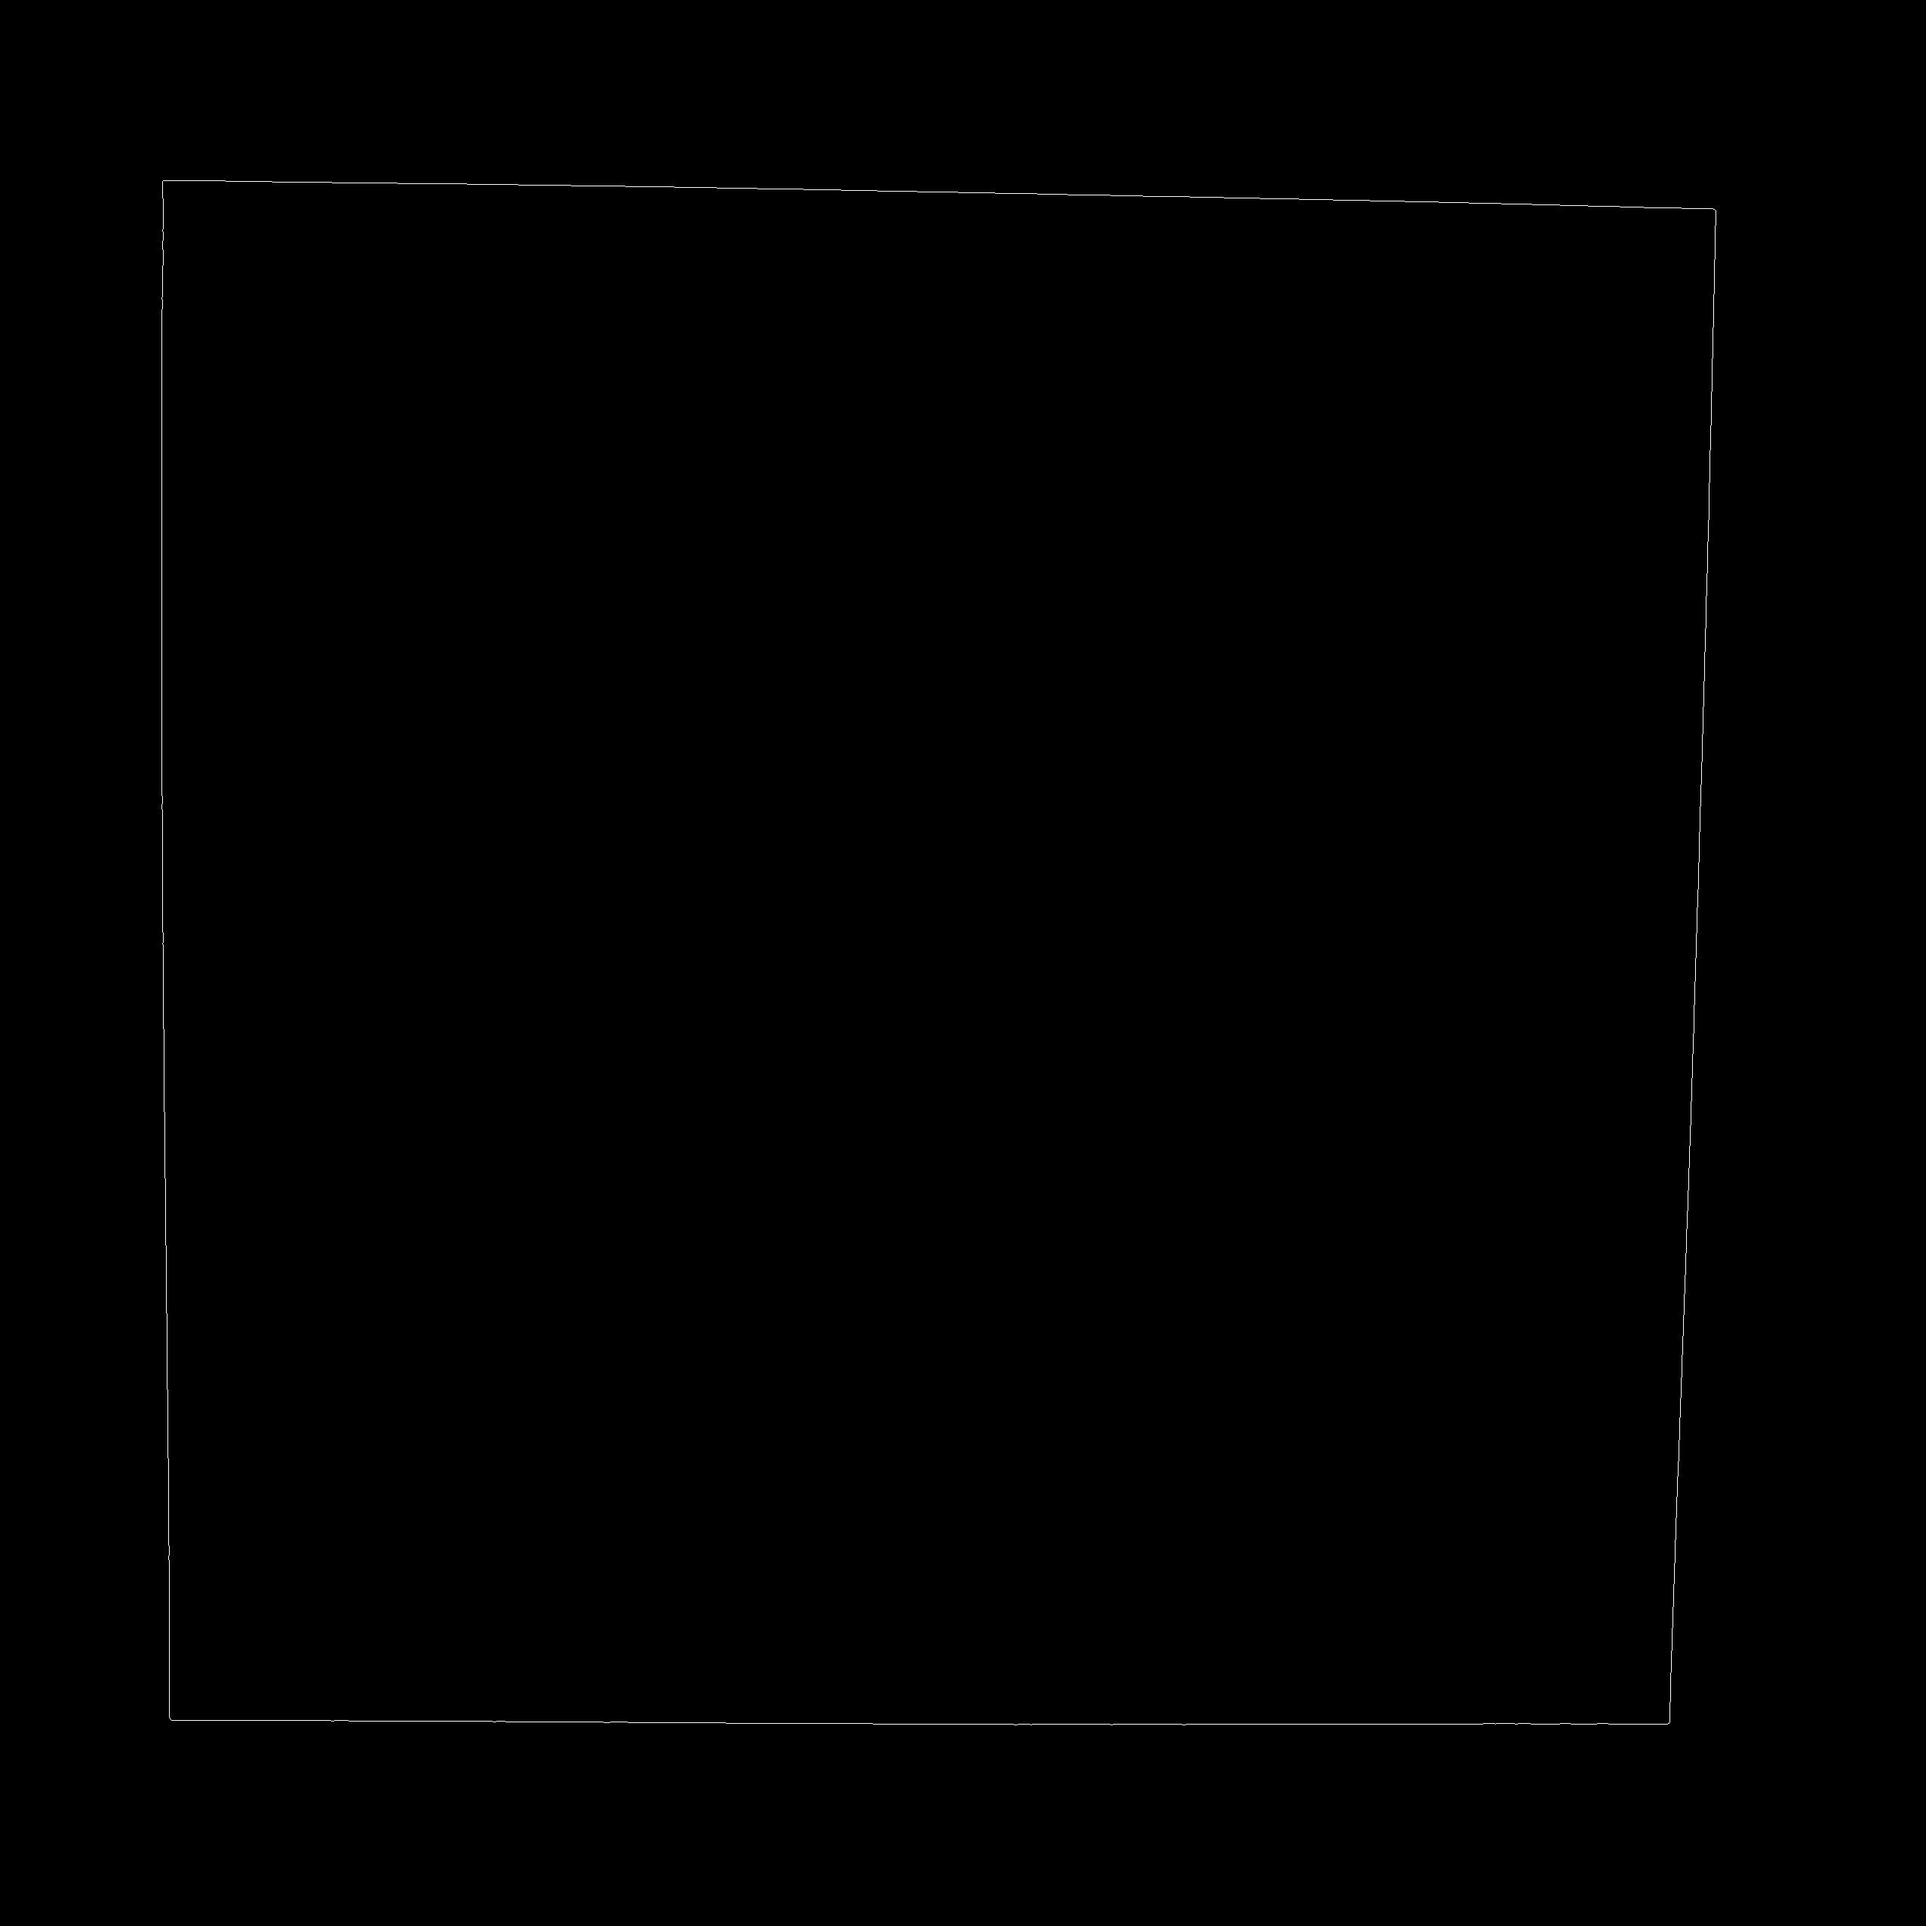
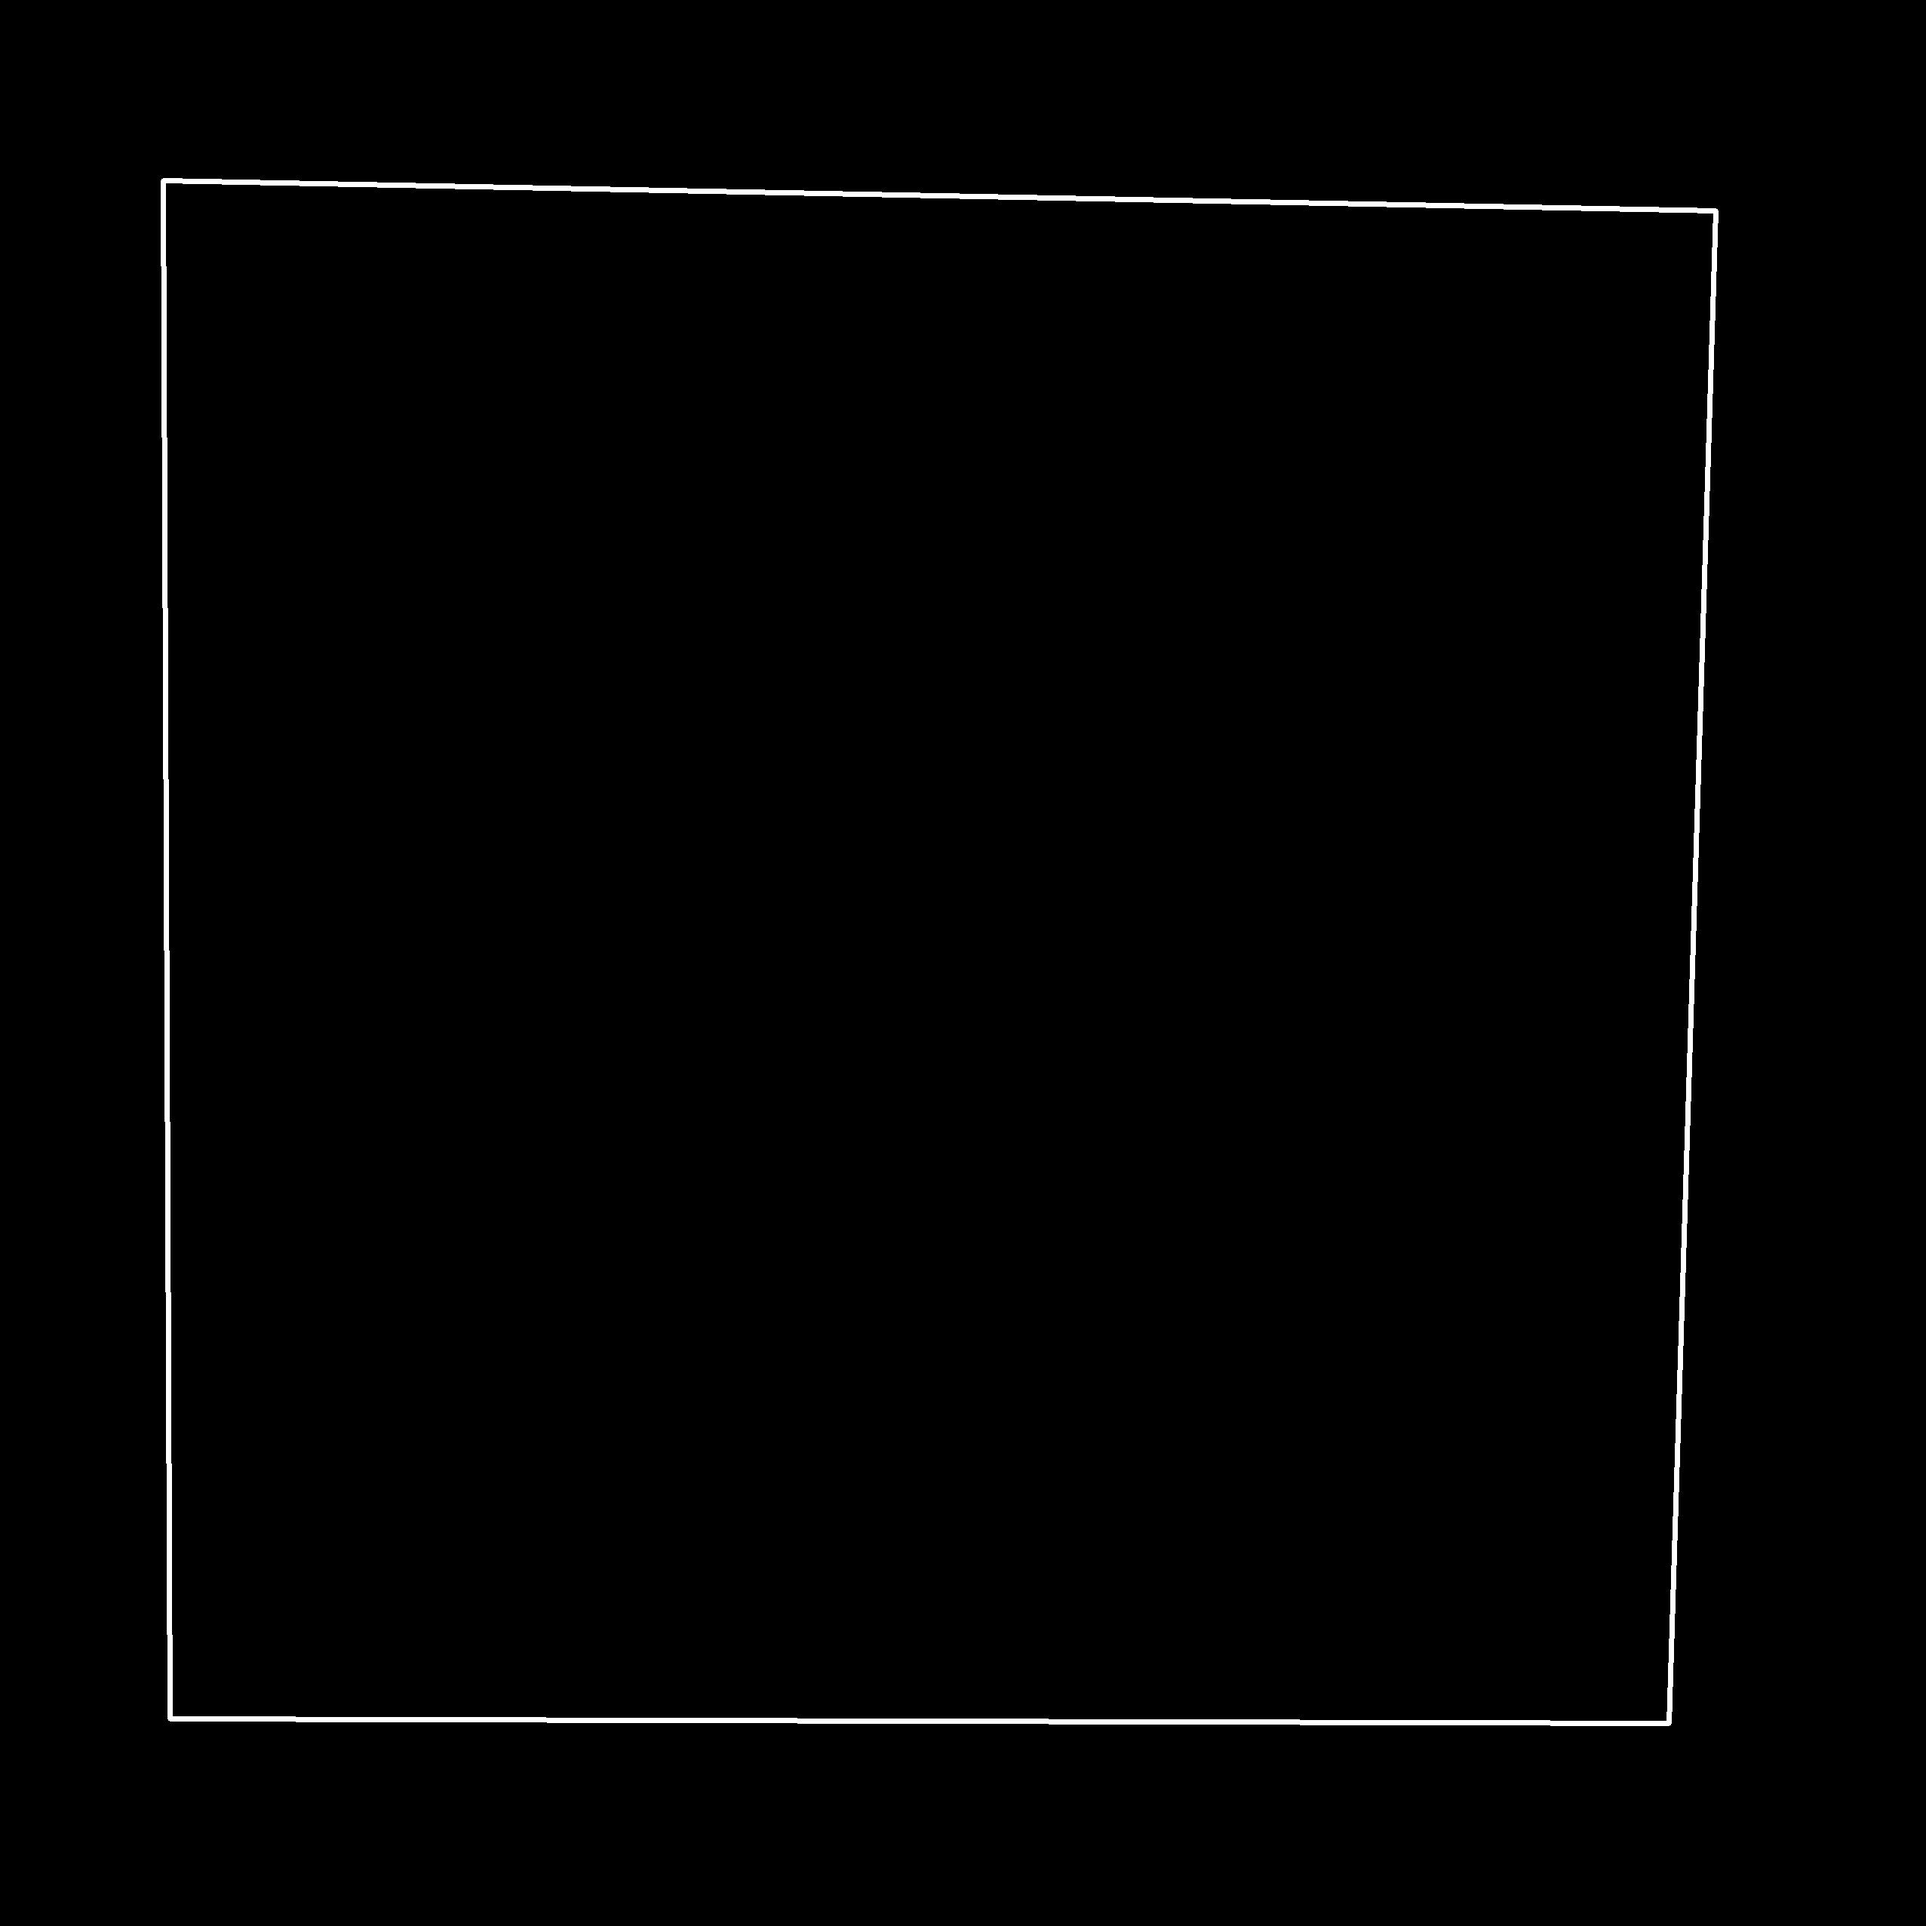
detected the four corners of the sudoku to later ajust the perspectives

diff --git a/detection/testOpencv.js b/detection/testOpencv.js
@@ -54,19 +54,37 @@ const cv = require('opencv.js');
   //sort by descending order
   contourArr.sort(function(a, b){return cv.contourArea(b) - cv.contourArea(a)});
 
-  let contoursSorted = new cv.MatVector();
+  let sortedContours = new cv.MatVector();
 
   for (let i=0; i < contourArr.length; i++) {
-    contoursSorted.push_back(contourArr[i]);
+    sortedContours.push_back(contourArr[i]);
   }
 
   //find and draw the largest contour
   let result = cv.Mat.zeros(dst.cols, dst.rows, cv.CV_8UC3)  // show contours
-  for (let i = 0; i<1; ++i) {
-    let color = new cv.Scalar(255, 255, 255);
-    cv.drawContours(result, contoursSorted, i, color, 1, cv.LINE_8, hierarchy, 100);
-}
+  let color = new cv.Scalar(255, 255, 255);
+  // cv.drawContours(result, sortedContours, 0, color, 5, cv.LINE_8, hierarchy, 100);
+  
+  let biggestContour = contourArr[0];
+  
+  
 
+  let peri = cv.arcLength(biggestContour, true);
+  let contourApprox = new cv.Mat();
+  cv.approxPolyDP(biggestContour, contourApprox, 0.015 * peri, true);
+
+  if (contourApprox.rows != 4) {
+    // return false or something like that
+  }
+
+  let a = new cv.MatVector()
+  a.push_back(contourApprox);
+  cv.drawContours(result, a, 0, color, 5, cv.LINE_8);
+  
+  
+  console.log(contourApprox.intPtr(3, 0));
+
+  
 
   // we create an object compatible HTMLCanvasElement
   const canvas = createCanvas(300, 300);
